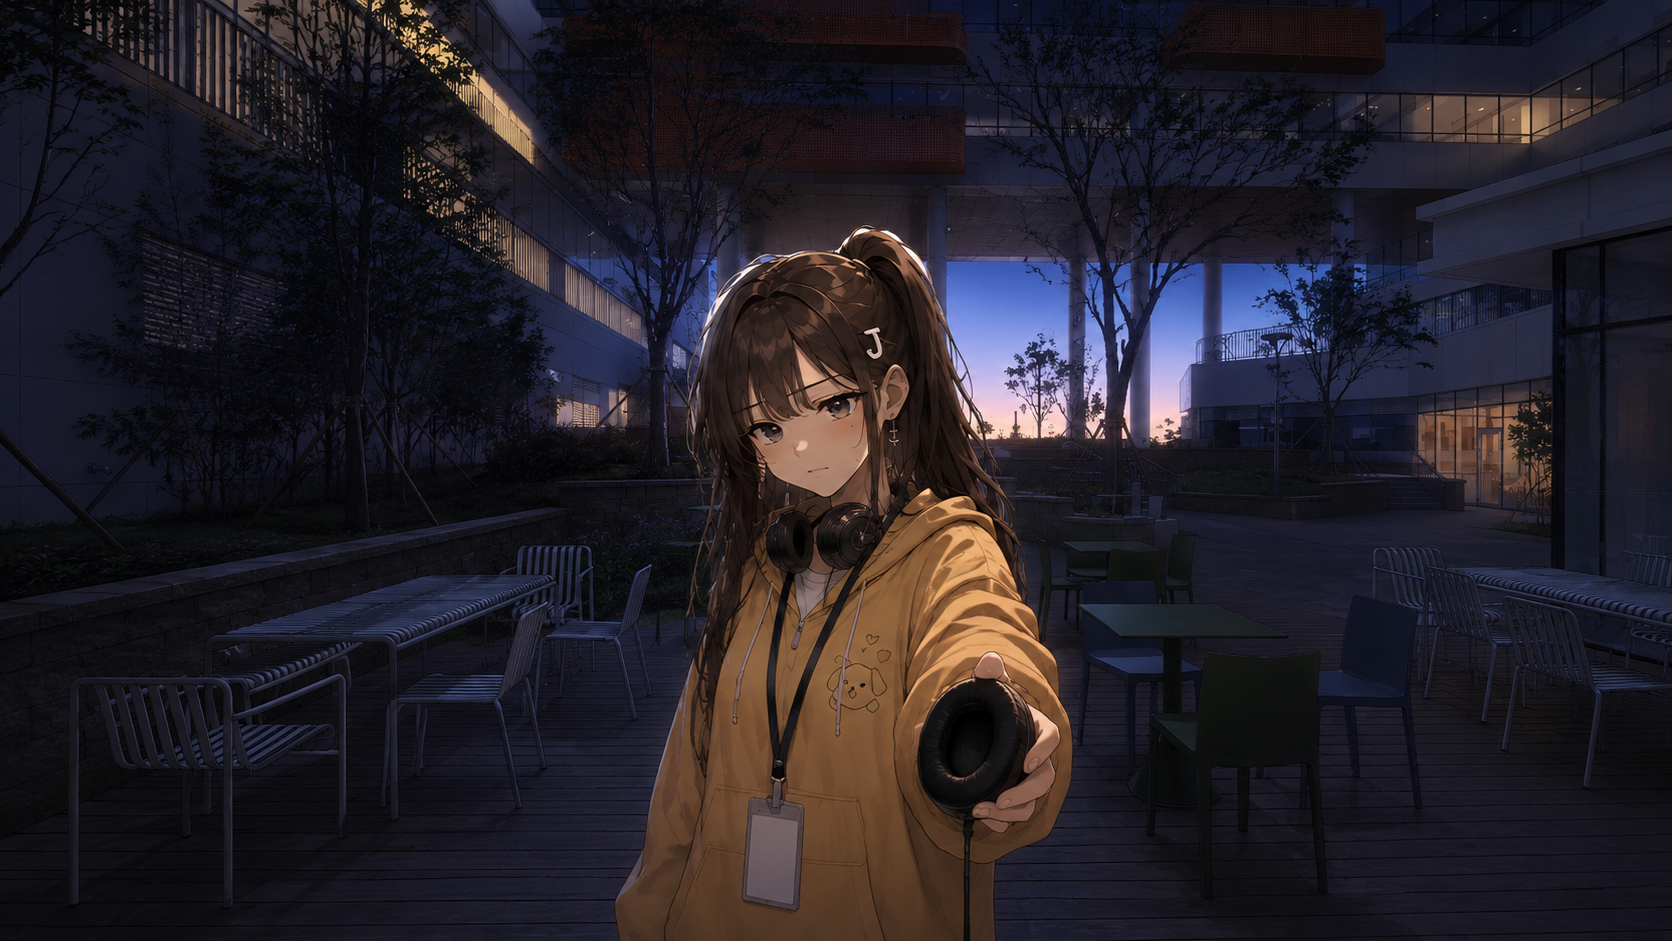
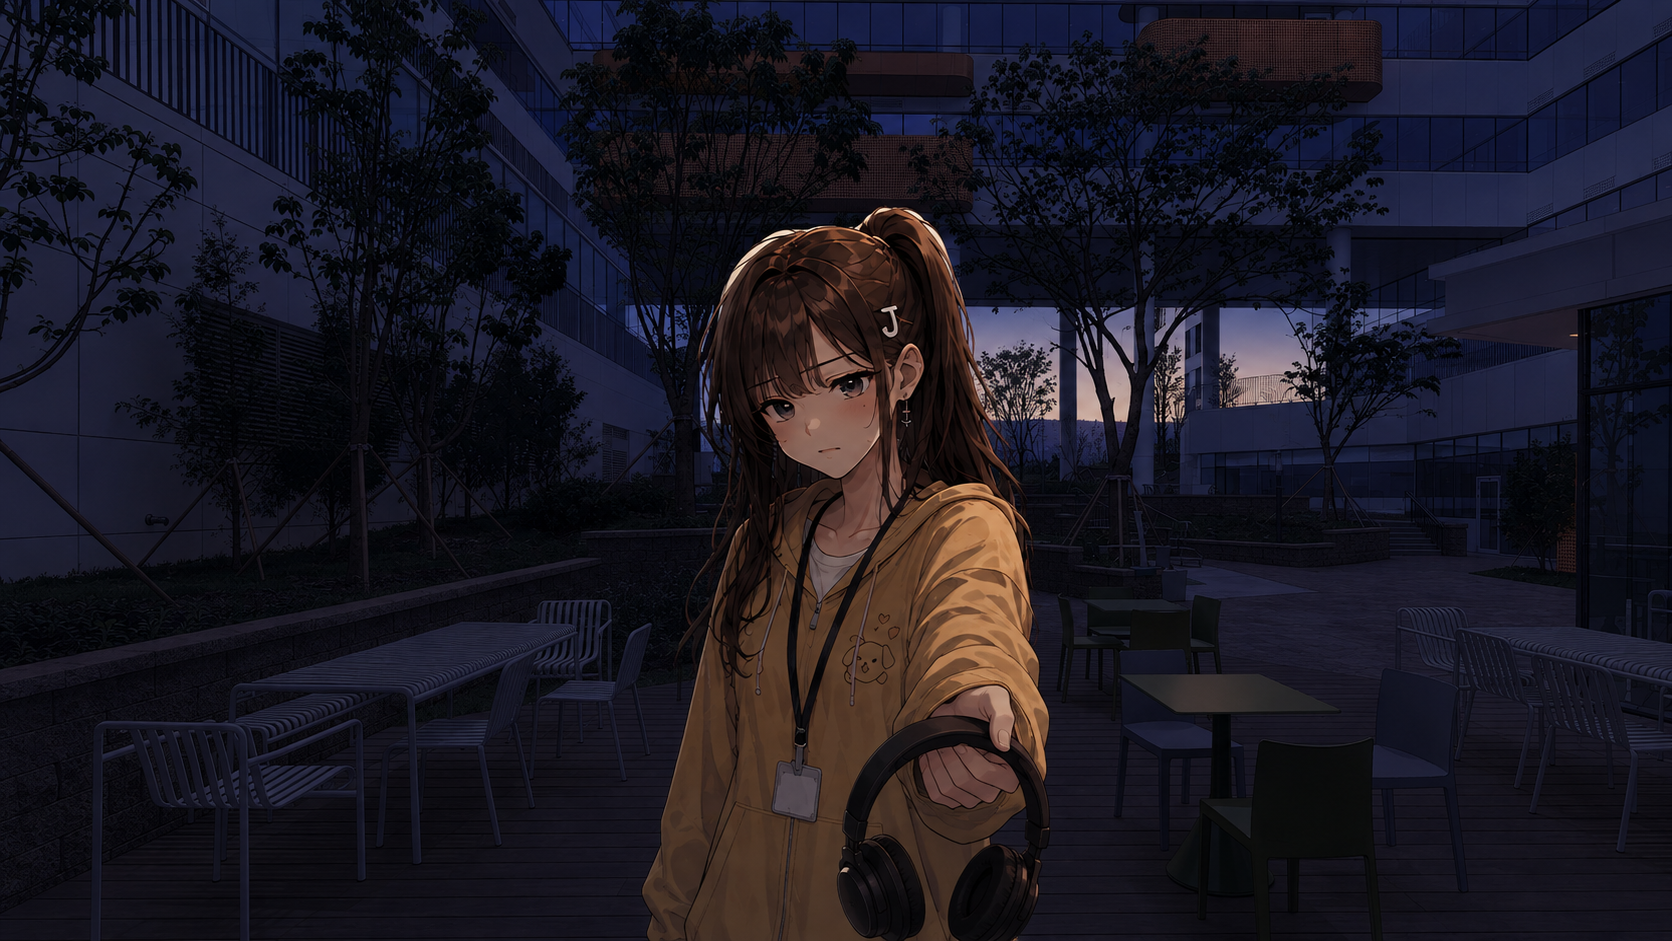
fix: 민아 클라이맥스 — 시선을 상대 쪽으로
"괜찮다고 우김" 은 상대가 있어야 성립하는 말인데 1인칭이라 주인공이
화면에 없다. 상태만 적었더니 노트북을 내려다보며 혼자 지쳐 있는
그림이 나왔다. 가든의 슬픔 컷과 거의 같은 얼굴이었다.

  말을 걸어온 상대(화면 이쪽)를 향해 고개를 들어 쏘아보는 중,
  눈썹이 올라가고 눈매가 날카로움, 입은 굳게 다물었음,
  괜찮다는 말을 내뱉은 직후, 실제로는 쓰러질 지경

핵심은 "고개를 들어" 와 "화면 이쪽" 이다. 노트북을 내려다보는 자세로는
어떤 표정을 넣어도 혼자 있는 그림이 된다.

여섯 중 민아만 이 처리를 한다
  승희는 조금 떨어져 서 있고, 윤정은 말하다 얼어붙고, 민규는 아무도
  눈치 못 채고, 승민은 책상에 쓰러지고, 윤호는 시선을 피한다.
  시선이 비껴가는 게 다섯의 설계라 지금 프롬프트가 맞다.

T07 배경은 통과했다. 천장 17 벽 13 테이블 21, 창밖 4 로 완전히 검다.
화이트보드 왼쪽 통창 오른쪽 배치도 맞다. 클라이맥스는 배경 프롬프트
자체가 어두워서 가든처럼 어둠 한 줄을 덧댈 필요가 없었다.

diff --git a/tools/gen_prompts.py b/tools/gen_prompts.py
@@ -76,7 +76,15 @@ HEROINES = [
         """),
         garden="데크에 앉아 편의점 삼각김밥을 들고 말없이 천천히 먹는 중, 지쳐 있음, 묶은 머리가 흘러내림",
         garden_face="슬픔", climax_face="화남", ending_face="기본",
-        climax="쓰러질 지경인데 인정하지 않음, 괜찮다고 우김, 모니터 빛이 얼굴에 닿음",
+        # "괜찮다고 우김" 은 상대가 있어야 성립하는데 1인칭이라 주인공이 화면에
+        # 없다. 상태만 적었더니 노트북을 내려다보는 혼잣말 그림이 나왔다.
+        # 여섯 중 민아만 상대와 시선이 맞부딪히는 컷이다 — 나머지는 전부 비껴간다.
+        climax=block("""
+            말을 걸어온 상대(화면 이쪽)를 향해 고개를 들어 쏘아보는 중,
+            눈썹이 올라가고 눈매가 날카로움, 입은 굳게 다물었음,
+            괜찮다는 말을 내뱉은 직후, 실제로는 쓰러질 지경,
+            모니터 빛이 아래에서 얼굴을 비춤
+        """),
         ending_age=27, ending_bg="office",
         ending="같은 회사 다른 팀, 여전히 코드 리뷰로 다투고 퇴근은 같이 함",
         ending_wear=block("""

diff --git a/docs/reference/character/prompts/04_still/T07_minah_climax.md b/docs/reference/character/prompts/04_still/T07_minah_climax.md
@@ -50,7 +50,10 @@
 흰 티 위에 검은 후드집업,
 목에 검은 랜야드 — 줄이 가슴에 보이고 작은 흰 명찰이 명치에 놓임.
 
-쓰러질 지경인데 인정하지 않음, 괜찮다고 우김, 모니터 빛이 얼굴에 닿음.
+말을 걸어온 상대(화면 이쪽)를 향해 고개를 들어 쏘아보는 중,
+눈썹이 올라가고 눈매가 날카로움, 입은 굳게 다물었음,
+괜찮다는 말을 내뱉은 직후, 실제로는 쓰러질 지경,
+모니터 빛이 아래에서 얼굴을 비춤.
 
 한국 웹툰 일러스트 화풍, 세미리얼 애니메이션풍, 부드러운 셀 셰이딩,
 깔끔한 선화, 따뜻하고 채도 낮은 팔레트.
